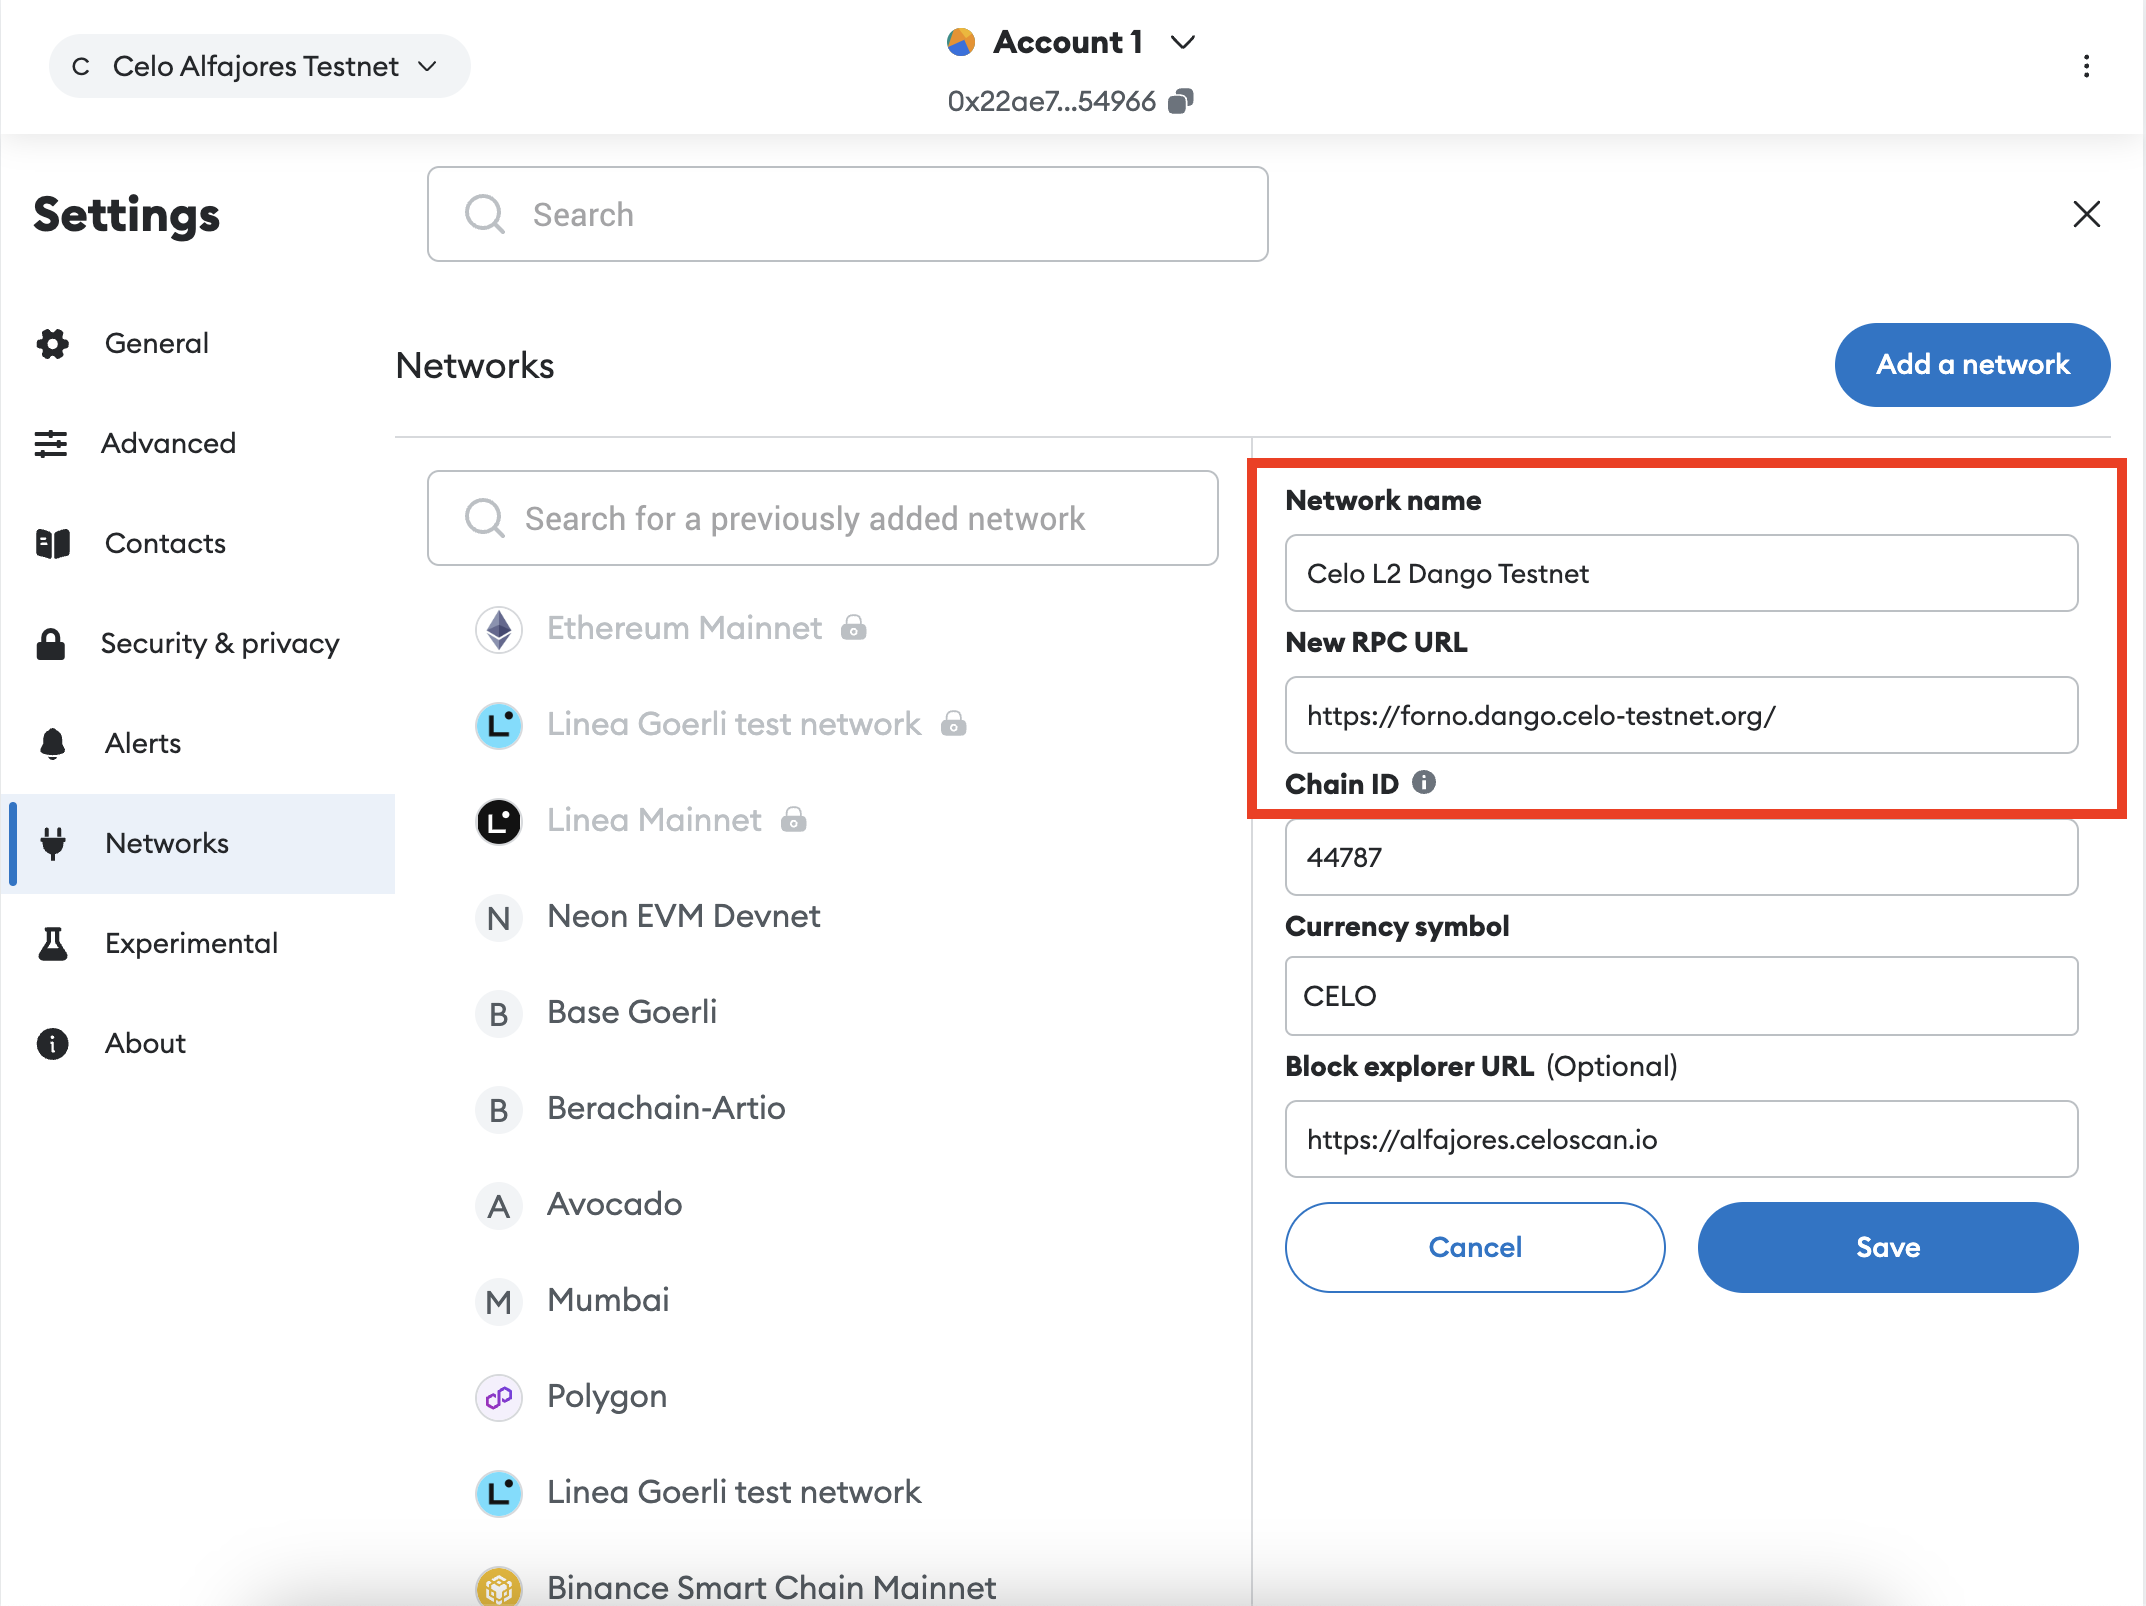
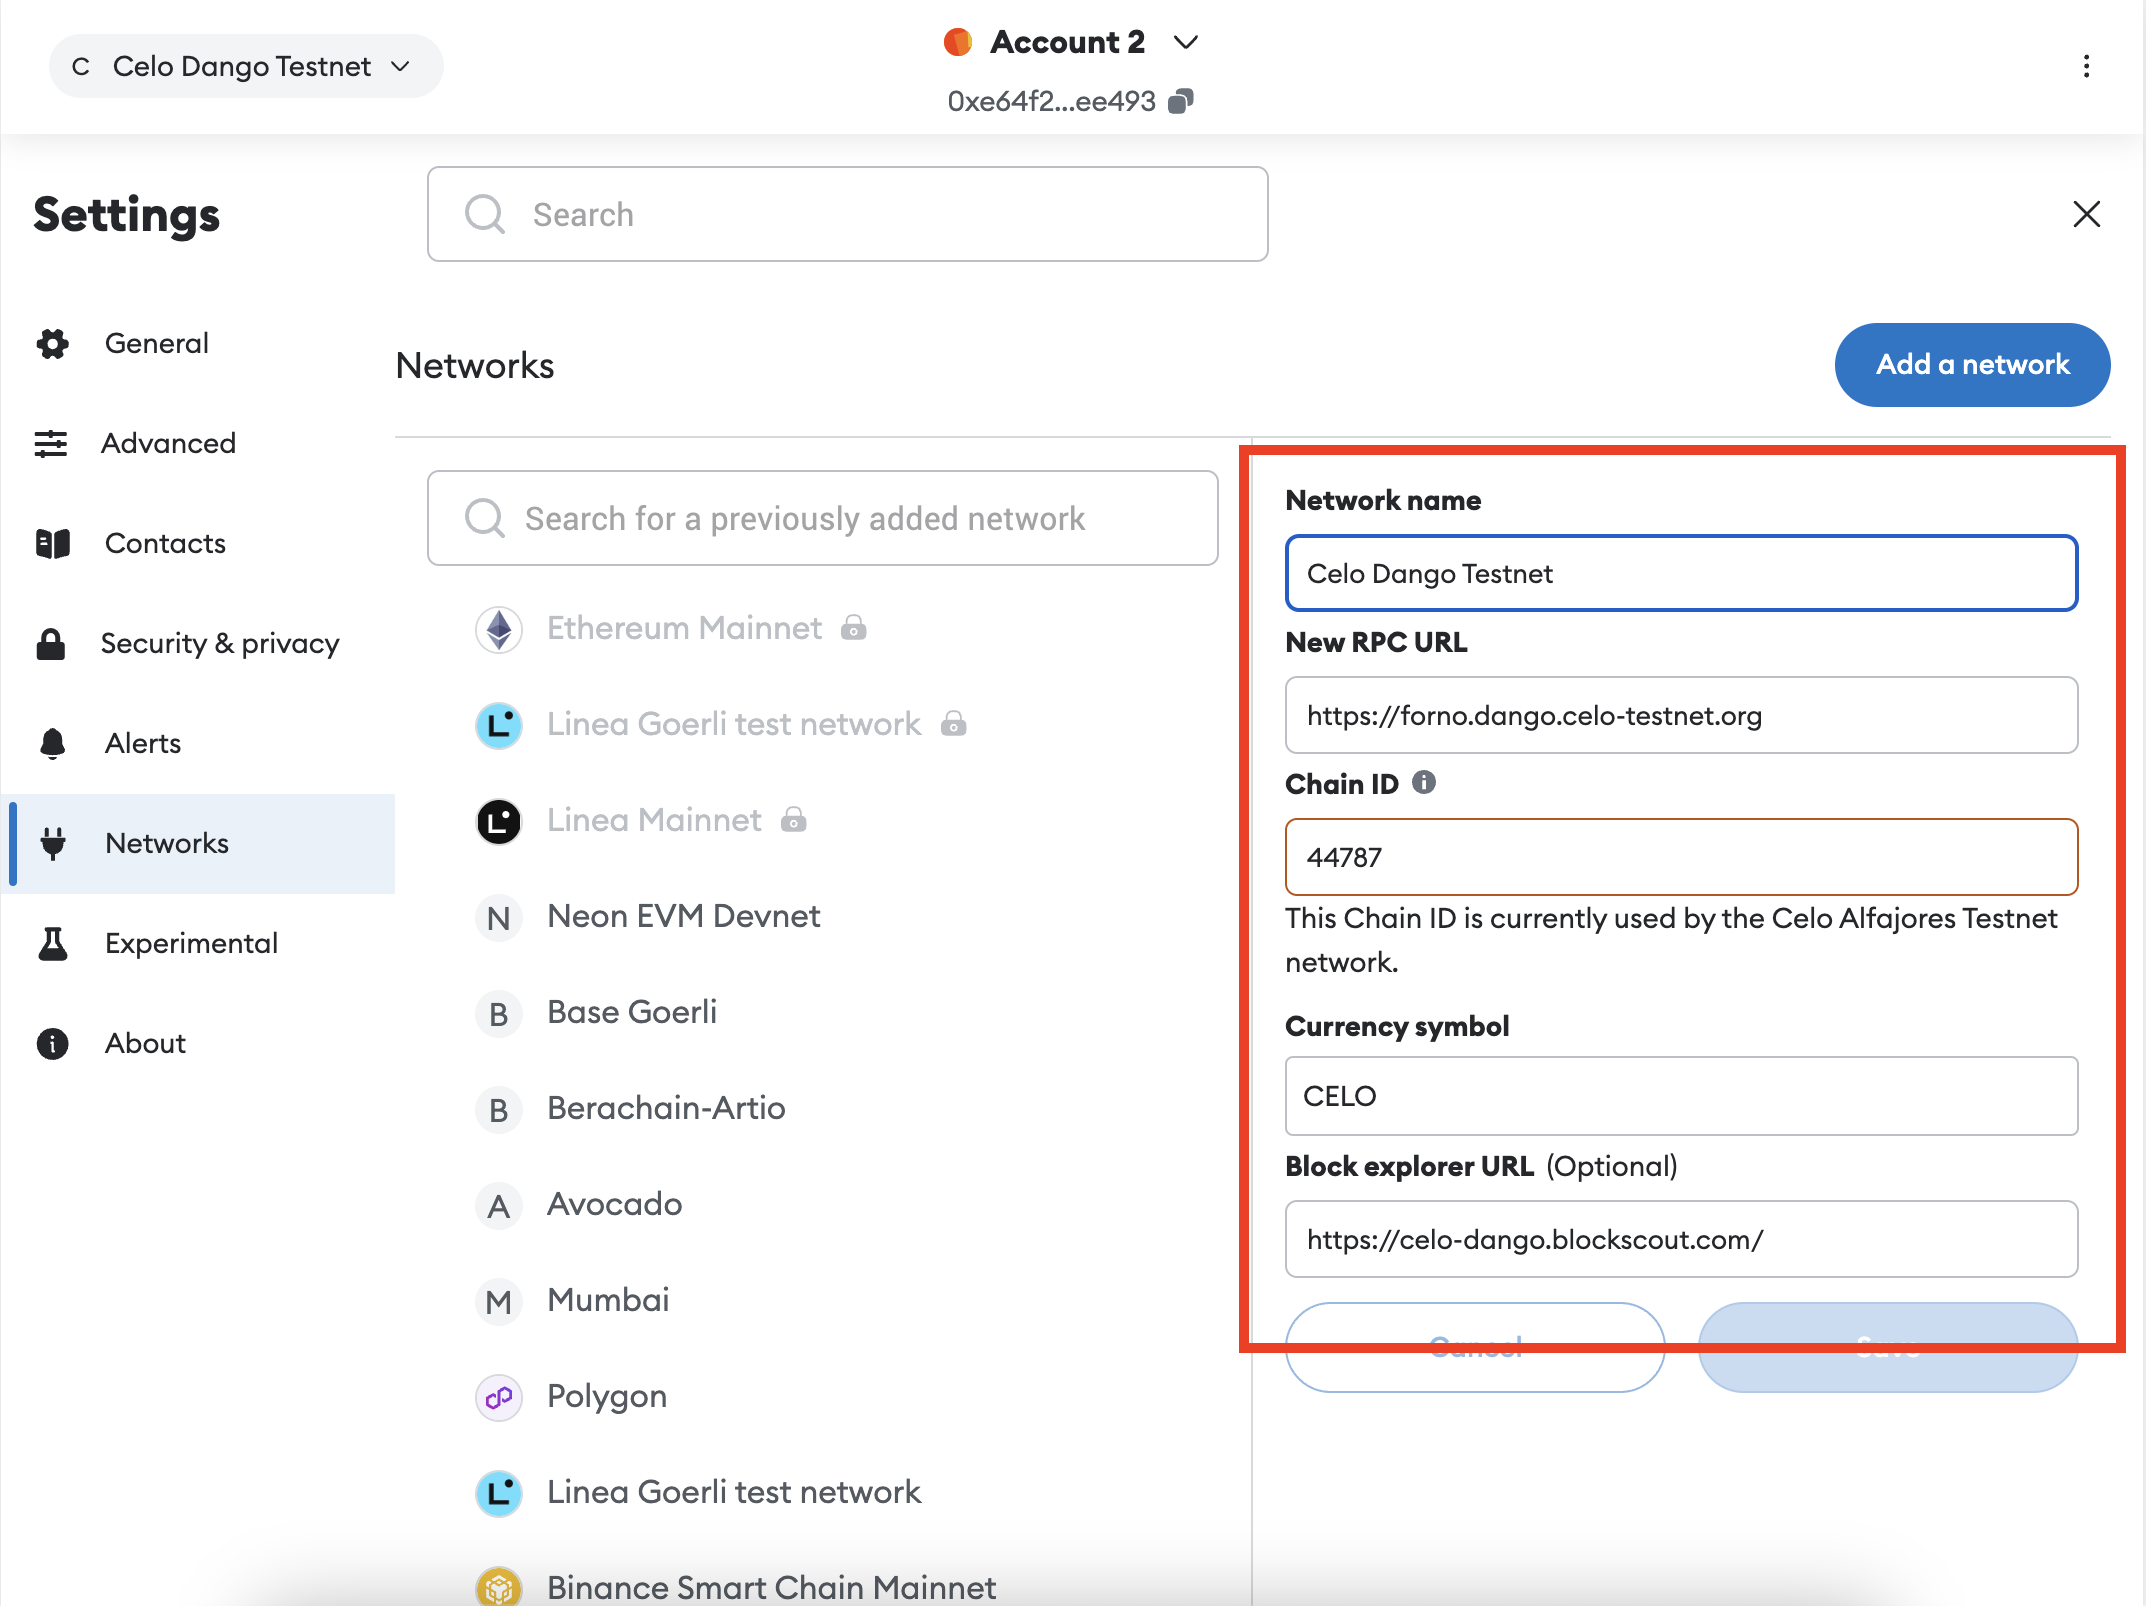
chore: add block explorer url and info to overview page

diff --git a/docs/cel2/index.md b/docs/cel2/index.md
@@ -1,6 +1,42 @@
 ---
-title: Cel2
+title: Introduction to Cel2
 description: Introducion to Cel2
 ---
 
-# Cel2
+Celo is transitioning from being an independent EVM-compatible Layer 1 blockchain to an Ethereum Layer 2. Learn more about the CEL2 announcement [here](https://forum.celo.org/t/clabs-proposes-migrating-celo-to-an-ethereum-l2-leveraging-the-op-stack/7902).
+
+Dango Testnet is the first Cel2 public test network for developers building on Cel2.
+
+:::warning
+The Dango Testnet is designed for testing and experimentation by developers. Its tokens hold no real world economic value. You may encounter bugs and limitations with the software and documentation.
+:::
+
+Features of Dango L2 Testnet
+
+- Full Alfajores history and state migration
+- CELO token duality
+- Fee abstraction
+- Native Bridging to the L1
+- EigenDA
+
+Tooling Available for Dango L2 Testnet
+
+- Explorer: https://celo-dango.blockscout.com/
+
+## CeloCLI
+
+1. Setup celo-cli
+
+```bash
+celocli config:set --node https://forno.dango.celo-testnet.org/
+```
+
+2. Check balance of a Cel2 account
+
+```bash
+celocli account:balance $ACCOUNT_ADDRESS --node https://forno.dango.celo-testnet.org/
+```
+
+## Useful Links
+
+- [Add Cel2 Dango Testnet to Metamask](/docs/cel2/add-cel2-testnet-to-metamask.md)

diff --git a/docs/cel2/add-cel2-testnet-to-metamask.md b/docs/cel2/add-cel2-testnet-to-metamask.md
@@ -23,10 +23,11 @@ If you never added Celo Testnet before then you need click on "Add a Network"
 
 Insert the following details:
 
-- Network Name: Celo L2 Dango Testnet
-- New RPC URL: `https://forno.cel2-snapsync.alfajores.celo-testnet.org`
+- Network Name: Celo Dango Testnet
+- New RPC URL: `https://forno.dango.celo-testnet.org`
 - Chain ID: 44787
 - Currency Symbol: CELO
+- Block explorer URL: `https://celo-dango.blockscout.com/`
 
 ![](/img/doc-images/add-cel2-testnet-network-to-metamask/4.png)
 
